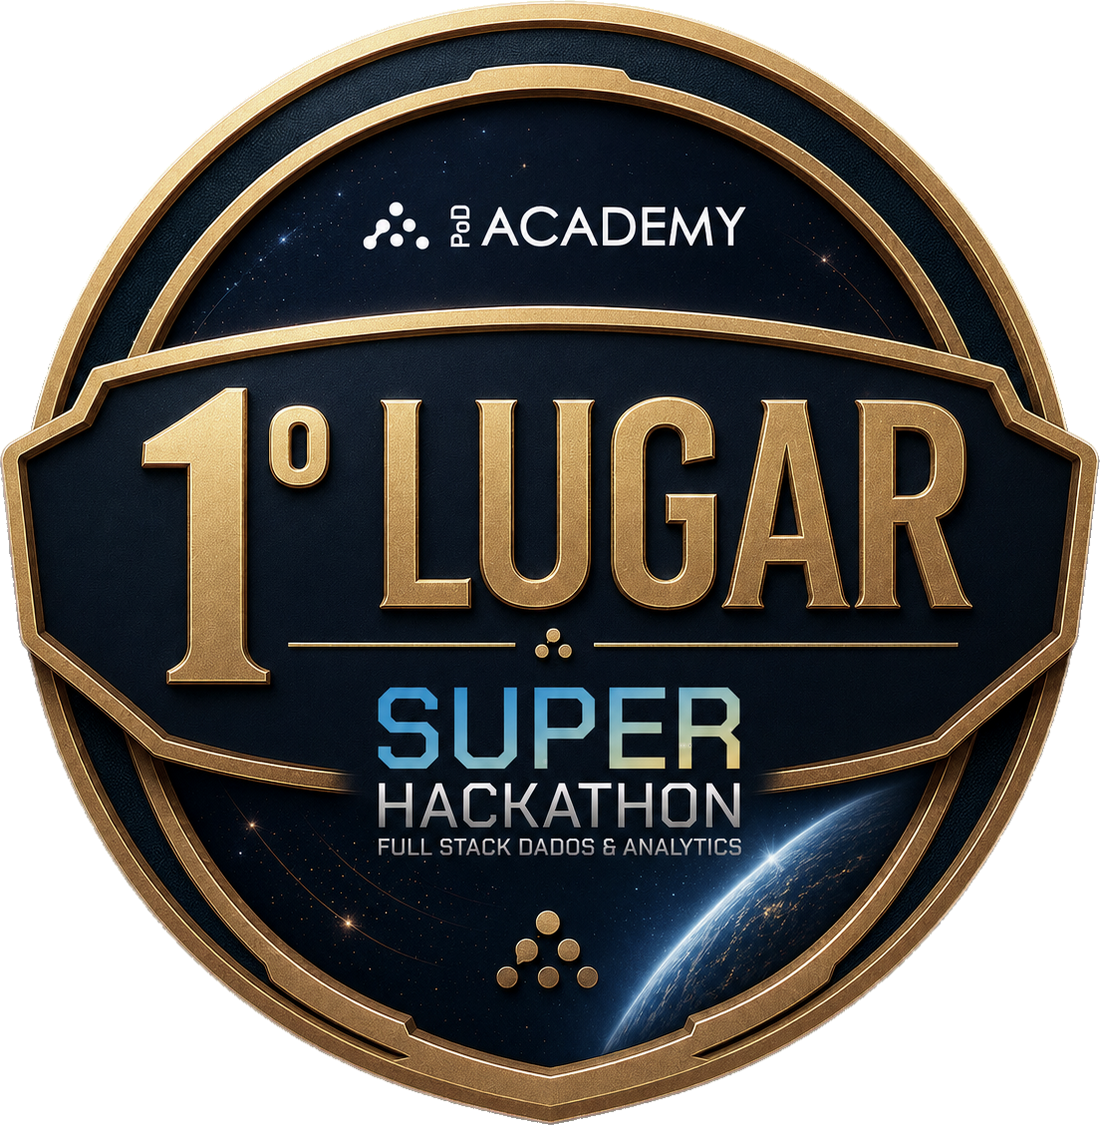
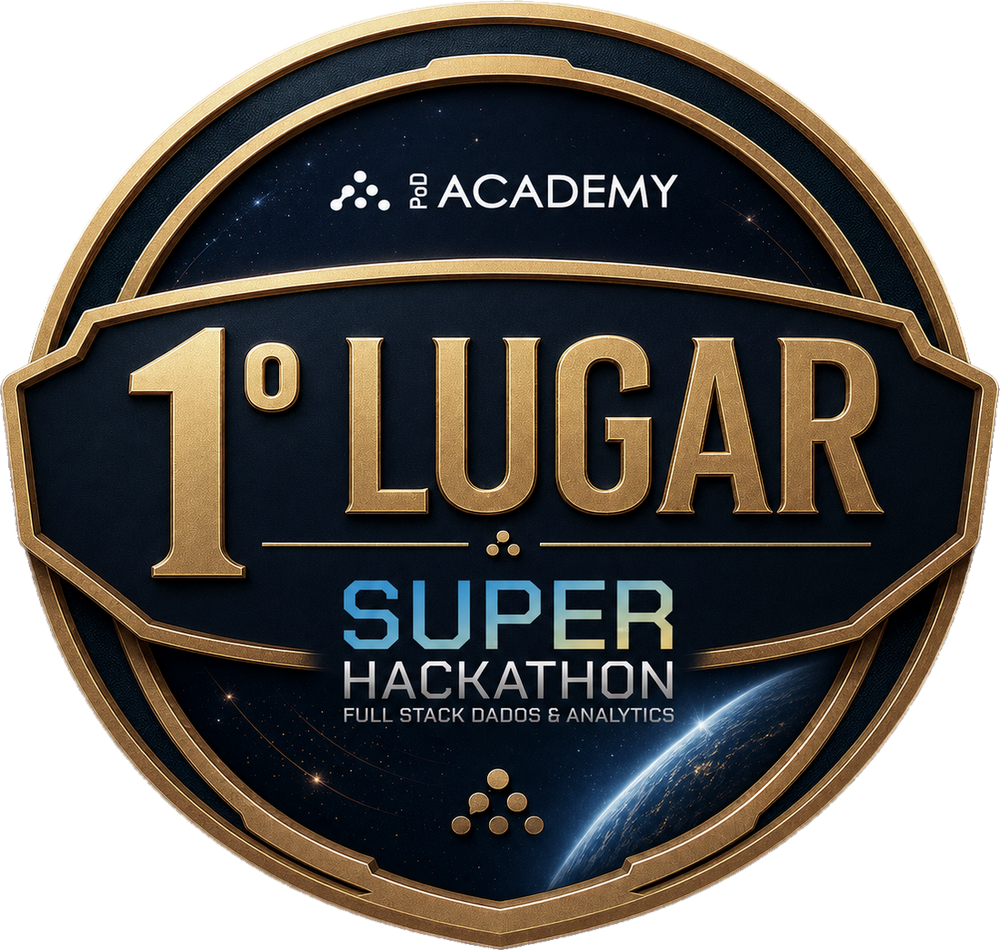
initial commit

diff --git a/index.html b/index.html
@@ -200,11 +200,11 @@ class AboutMe:
         -->
 
         <a href="https://drive.google.com/file/d/1fkRzZ8OR5SYczzmBmLq7r0Wg7lajzqf0/view?usp=sharing" target="_blank">
-          <img src="docs/badges/hackathon_pod.png" style="width: 100px; margin-right:7px; ">
+          <img src="docs/badges/hackathon_pod.png" style="width: 105px; margin-right:7px; ">
         </a>
 
         <a href="https://drive.google.com/file/d/19crkCafWzhxnG6tdUh8jsb4D2X1Px2fZ/view?usp=sharing" target="_blank">
-          <img src="docs/badges/hackathon_pod_skills.png" style="width: 100px; margin-right:7px; ">
+          <img src="docs/badges/hackathon_pod_skills.png" style="width: 105px; margin-right:7px; ">
         </a>
 
         <a href="https://catalog-education.oracle.com/ords/certview/sharebadge?id=30086A4A3D1225961E33215DCB6789E59475E2BD461858926ACD251246069B1B"
